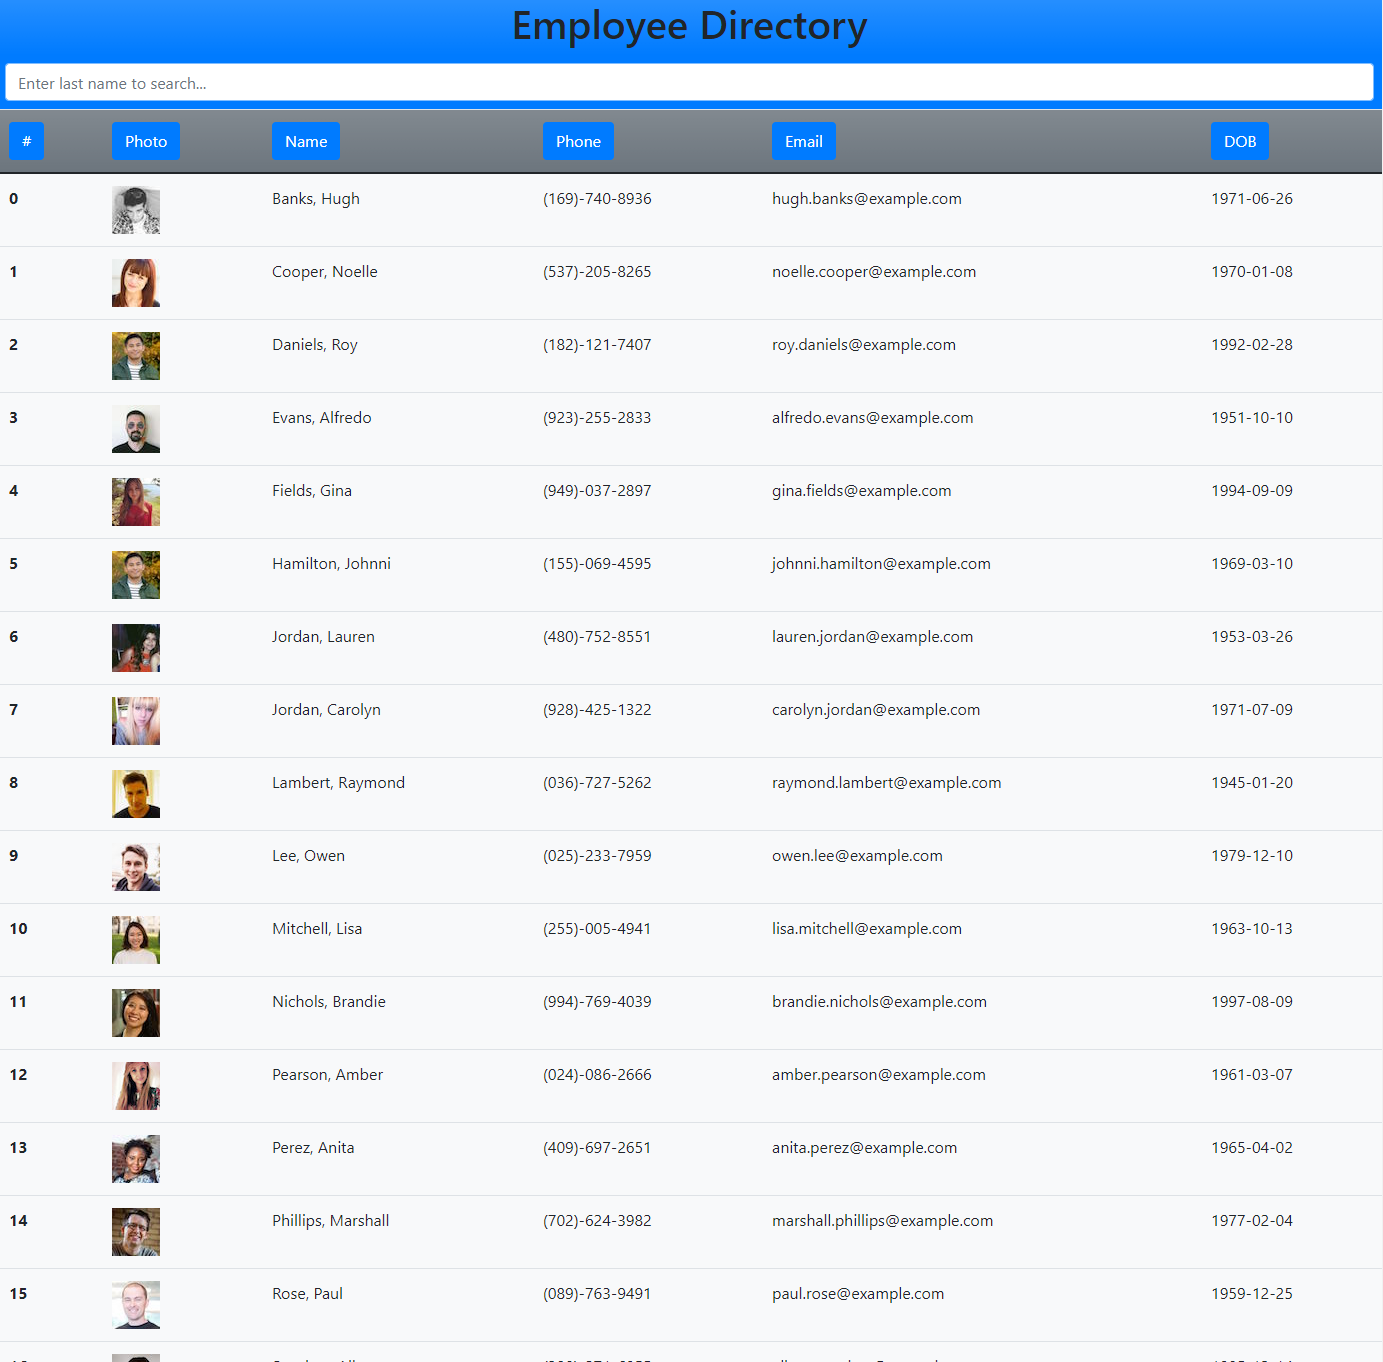
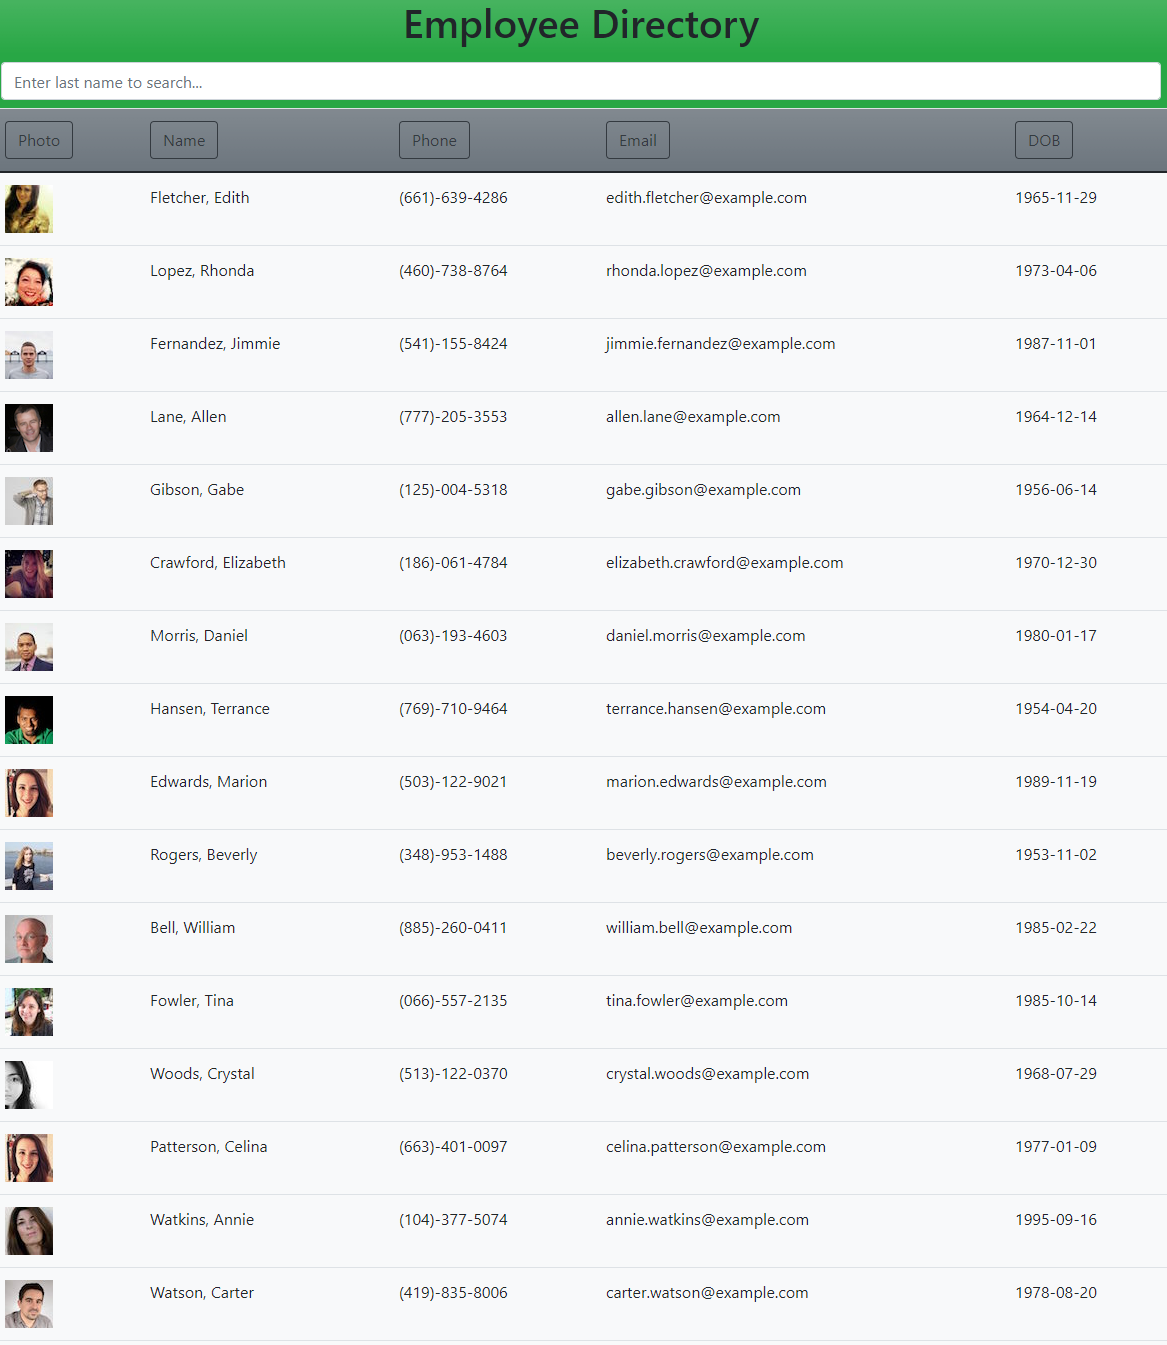
Both searching and sorting by last name

diff --git a/src/components/ListviewHeaderEl/ListviewHeaderEl.jsx b/src/components/ListviewHeaderEl/ListviewHeaderEl.jsx
@@ -6,56 +6,31 @@ const ListviewHeaderEl = (props) => {
       <thead className="bg-secondary bg-gradient">
         <tr>
           <th scope="col">
-            <button
-              type="button"
-              className="btn btn-primary"
-              onClick={props.handleBtnClick}
-            >
-              #
-            </button>
-          </th>
-          <th scope="col">
-            <button
-              type="button"
-              className="btn btn-primary"
-              onClick={props.handleBtnClick}
-            >
+            <button type="button" className="btn btn-outline-dark">
               Photo
             </button>
           </th>
           <th scope="col">
             <button
               type="button"
-              className="btn btn-primary"
+              className="btn btn-outline-dark"
               onClick={props.handleBtnClick}
             >
               Name
             </button>
           </th>
           <th scope="col">
-            <button
-              type="button"
-              className="btn btn-primary"
-              onClick={props.handleBtnClick}
-            >
+            <button type="button" className="btn btn-outline-dark">
               Phone
             </button>
           </th>
           <th scope="col">
-            <button
-              type="button"
-              className="btn btn-primary"
-              onClick={props.handleBtnClick}
-            >
+            <button type="button" className="btn btn-outline-dark">
               Email
             </button>
           </th>
           <th scope="col">
-            <button
-              type="button"
-              className="btn btn-primary"
-              onClick={props.handleBtnClick}
-            >
+            <button type="button" className="btn btn-outline-dark">
               DOB
             </button>
           </th>

diff --git a/src/components/Container/Container.jsx b/src/components/Container/Container.jsx
@@ -55,7 +55,7 @@ class Container extends Component {
       return sortDirection;
     };
 
-    const simsSortedBuffer = this.state.sims.sort(compareForSort);
+    const simsSortedBuffer = this.state.simsFiltered.sort(compareForSort);
     this.setState({ simsFiltered: simsSortedBuffer });
   };
 
@@ -68,9 +68,7 @@ class Container extends Component {
           <ListviewHeaderEl handleBtnClick={this.handleBtnClick} />
           <tbody>
             {this.state.simsFiltered.map((simInstance, index) => {
-              return (
-                <ListviewRowEl {...simInstance} key={index} index={index} />
-              );
+              return <ListviewRowEl {...simInstance} key={index} />;
             })}
           </tbody>
         </table>

diff --git a/src/components/RipJumbotron/RipJumbotron.jsx b/src/components/RipJumbotron/RipJumbotron.jsx
@@ -3,7 +3,7 @@ import React from "react";
 const RipJumbotron = () => {
   return (
     <>
-      <div className="bg-primary bg-gradient">
+      <div className="bg-success bg-gradient">
         <div className="row">
           <div className="col-12">
             <div className="d-flex justify-content-center">

diff --git a/src/components/SearchForm/SearchForm.jsx b/src/components/SearchForm/SearchForm.jsx
@@ -3,7 +3,7 @@ import React from "react";
 const SearchForm = (props) => {
   return (
     <div>
-      <form className="bg-primary p-2">
+      <form className="bg-success p-2">
         <input
           type="text"
           className="form-control"

diff --git a/src/components/ListviewRowEl/ListviewRowEl.jsx b/src/components/ListviewRowEl/ListviewRowEl.jsx
@@ -4,7 +4,6 @@ const ListviewRowEl = (props) => {
   return (
     <>
       <tr className="bg-light">
-        <th>{props.index}</th>
         <td>
           <img src={props.picture.thumbnail} alt={props.name.last} />
         </td>

diff --git a/README.md b/README.md
@@ -1,7 +1,5 @@
 # employee-directory
 
-# ![https://github.com/brhestir/employee-directory/blob/main/README.md](https://badgen.net/badge/employee/directory/blue?icon=github&scale=5)
-
 Search, sort and view employees in React
 
 ## Table of Contents
@@ -18,7 +16,7 @@ Search, sort and view employees in React
 
 ![](./assets/images/employee-directory.png)
 
-This is a simple React-based app which uses the randomuser API to generate a list of simulated employees, which one can filter and sort by last name.
+This is a simple React-based app which uses the Randomuser.me API to generate a list of simulated employees, which one can search and sort by last name.
 
 [Deployed GitHub Pages Site](https://brhestir.github.io/employee-directory/)
 
